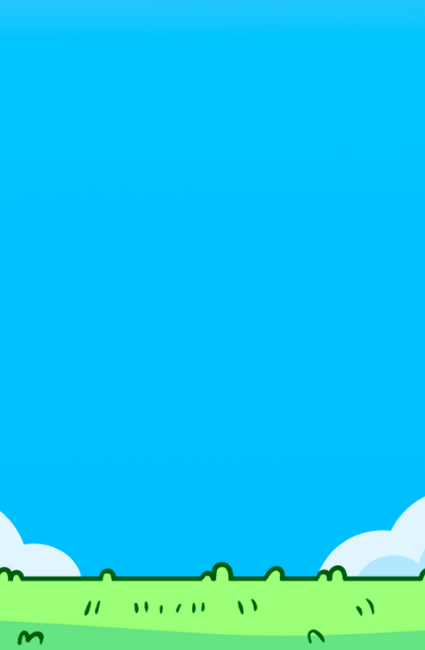
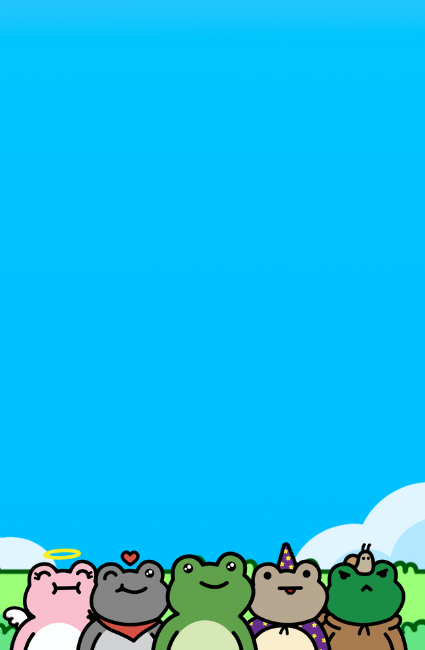
updates header background

Changed region(s): [[0.0, 0.7385, 1.0, 1.0], [0.0, 0.7692, 0.0612, 0.8308]]

diff --git a/src/components/header.tsx b/src/components/header.tsx
@@ -24,9 +24,6 @@ export default function Header() {
                     4,444 friendly frogs spreading positivity and kindness originating on the Ethereum blockchain.
                 </p>
             </div>
-            <div className='flex justify-center w-full' style={{position: 'absolute', bottom: '0px'}}>
-                <Image src={lineup} alt='Frogs'/>
-            </div>
             <Drawer isOpen={isOpen} setIsOpen={setIsOpen}>
                 <div className='flex flex-col justify-between gap-2'>
                     <a className='sm:text-4xl text-3xl hover:text-blue' href='./'>Home</a>
